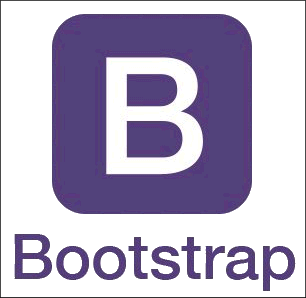
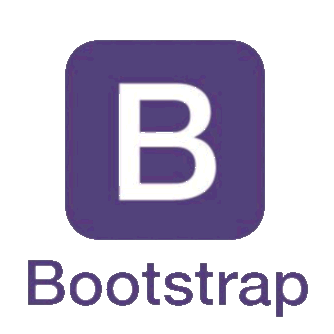
ok moving on now, really, I mean it

Changed region(s): [[0.0, 0.0, 1.0, 1.0], [0.3235, 0.1812, 0.6765, 0.604]]

diff --git a/src/app/home/home.component.ts b/src/app/home/home.component.ts
@@ -57,14 +57,14 @@ export class HomeComponent implements OnInit {
 
   initItems() {
     this.techItems = [
-      { text: "Bootstrap", image: { path: "../../assets/images/internet-icons/bootstrap.png" }, startX: '9999', startY: '-999', gridCol: -1, gridRow: '0', duration: 10000, delay: 1000, backImage: '' },
+      { text: "Bootstrap", image: { path: "../../assets/images/internet-icons/bootstrap.png", sizeX: 1.5, sizeY: 1.5 }, startX: '9999', startY: '-999', gridCol: -1, gridRow: '0', duration: 10000, delay: 1000, backImage: '' },
       { text: "Database Driven Applications", image: { path: "../../assets/images/internet-icons/application-database-blk.png" }, startX: 8000, startY: 2000, gridCol: -1, gridRow: 1, duration: 0, delay: 0, backImage: '' },
       // { text: "Web-Based Tools", image: { path: "" }, startX: '', startY: '', gridCol: '', gridRow: '', duration: 0, delay: 0, backImage: '' },
       { text: "Delightful User Experience", image: { path: "../../assets/images/internet-icons/ux.png", sizeX: 1, sizeY: 1 }, startX: -1500, startY: -500, gridCol: 0, gridRow: 1, duration: 6000, delay: 2000, backImage: '' },
       { text: "Data transformation", image: { path: "../../assets/images/internet-icons/data-transformation.png" }, startX: '-300', startY: '-9000', gridCol: -1, gridRow: 2, duration: 2000, delay: 3500, backImage: '' },
-      { text: "ASP.NET", image: { path: "../../assets/images/aspnet-logo.png", sizeX: '1.1', sizeY: '0.6' }, startX: '6000', startY: '4000', gridCol: 2, gridRow: 0, duration: 3000, delay: 2500, backImage: '' },
+      { text: "ASP.NET", image: { path: "../../assets/images/net-logo.png", sizeX: '1.1', sizeY: '0.6' }, startX: '6000', startY: '4000', gridCol: 2, gridRow: 0, duration: 3000, delay: 2500, backImage: '' },
       { text: "C#", image: { path: "../../assets/images/internet-icons/c-sharp.png" }, startX: '650', startY: '-1000', gridCol: 1, gridRow: 1, duration: 0, delay: 0, backImage: '' },
-      { text: "Angular (2+)", image: { path: "../../assets/images/internet-icons/angular2.png", sizeX: 1.6, sizeY: 1.8 }, startX: 0, startY: 5000, gridCol: 0, gridRow: 0, duration: 1750, delay: 500, backImage: '' },
+      { text: "Angular (2+)", image: { path: "../../assets/images/internet-icons/angular2.png", sizeX: 1.7, sizeY: 1.7 }, startX: 0, startY: 5000, gridCol: 0, gridRow: 0, duration: 1750, delay: 500, backImage: '' },
       // { text: "AngularJS", image: { path: "../../assets/images/internet-icons/angularjs.png", sizeX: '250px', sizeY: 'auto' }, startX: '', startY: '', gridCol: '', gridRow: '', duration: 0, delay: 0, backImage: '' },
       { text: "ReactJS", image: { path: "../../assets/images/internet-icons/react-neg.v2.png", sizeX: '1.15', sizeY: 'auto' }, startX: 400, startY: -500, gridCol: 2, gridRow: 2, duration: 1000, delay: 2000, backImage: '' },
       { text: "JQuery", image: { path: "../../assets/images/internet-icons/jquery.png" }, startX: -1000, startY: 9999, gridCol: -2, gridRow: 1, duration: 4000, delay: 500, backImage: '' },
